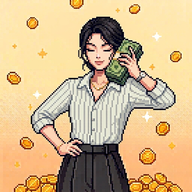
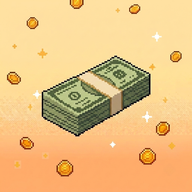
Add files via upload

diff --git a/index.html b/index.html
@@ -3,11 +3,11 @@
 <head>
 <meta charset="UTF-8" />
 <meta name="viewport" content="width=device-width, initial-scale=1, maximum-scale=1, viewport-fit=cover" />
-<title>가계부</title>
+<title>예산별 가계부</title>
 <meta name="theme-color" content="#1F2A44" />
 <meta name="apple-mobile-web-app-capable" content="yes" />
 <meta name="apple-mobile-web-app-status-bar-style" content="black-translucent" />
-<meta name="apple-mobile-web-app-title" content="가계부" />
+<meta name="apple-mobile-web-app-title" content="예산별 가계부" />
 <link rel="manifest" href="./manifest.json" />
 <link rel="apple-touch-icon" href="./icon-192.png" />
 <link rel="icon" href="./icon-192.png" />
@@ -76,14 +76,14 @@
 
   .lg-quick-panel { margin-bottom: 16px; }
   .lg-quick-row { display: flex; gap: 8px; }
-  .lg-quick-input { flex: 1; padding: 10px 11px; border: 1px solid var(--ink); background: #fff; font-size: 14px; font-family: inherit; color: var(--ink); }
+  .lg-quick-input { flex: 1; padding: 10px 11px; border: 1px solid var(--ink); background: #fff; font-size: 14px; font-family: inherit; color: var(--ink); min-width: 0; box-sizing: border-box; }
   .lg-quick-btn { padding: 10px 16px; border: none; background: var(--stamp); color: #fff; font-weight: 700; font-size: 13px; cursor: pointer; white-space: nowrap; }
   .lg-quick-hint { font-size: 11px; color: var(--ink-soft); margin-top: 5px; }
   .lg-error { font-size: 14px; color: var(--red-ink); margin-top: 6px; }
 
   .lg-items-manage { margin-bottom: 16px; }
   .lg-manage-toggle { width: 100%; padding: 9px 12px; background: #fff; border: 1px solid var(--paper-line); color: var(--ink-soft); font-size: 12px; cursor: pointer; display: flex; align-items: center; justify-content: space-between; }
-  .lg-manage-chevron { display: inline-block; transition: transform 0.2s ease; font-size: 12px; }
+  .lg-manage-chevron { display: inline-block; transition: transform 0.2s ease; font-size: 20px; line-height: 1; }
   .lg-manage-chevron.open { transform: rotate(180deg); }
   .lg-manage-body { display: none; border: 1px solid var(--ink); border-top: none; padding: 12px 14px; background: rgba(247,244,236,0.6); }
   .lg-manage-body.show { display: block; }
@@ -96,10 +96,10 @@
   .lg-manage-rename-input { flex: 1; padding: 6px 8px; border: 1px solid var(--ink); font-size: 13px; font-family: inherit; }
   .lg-manage-save { border: none; background: var(--ink); color: var(--paper); font-size: 12px; padding: 6px 10px; cursor: pointer; }
   .lg-add-item-row { display: flex; gap: 6px; margin-top: 10px; }
-  .lg-add-item-row input { padding: 7px 9px; border: 1px solid var(--paper-line); font-size: 13px; }
+  .lg-add-item-row input { padding: 7px 9px; border: 1px solid var(--paper-line); font-size: 13px; min-width: 0; box-sizing: border-box; }
   .lg-add-item-row input.lg-item-name-input { flex: 1.4; }
   .lg-add-item-row input.lg-item-bal-input { flex: 1; }
-  .lg-add-item-row button { padding: 7px 12px; border: none; background: var(--ink); color: var(--paper); font-size: 12px; cursor: pointer; }
+  .lg-add-item-row button { padding: 7px 12px; border: none; background: var(--ink); color: var(--paper); font-size: 12px; cursor: pointer; flex-shrink: 0; }
 
   .lg-item-card { border: 1px solid var(--ink); margin-bottom: 10px; background: rgba(247,244,236,0.5); }
   .lg-item-head { display: flex; align-items: center; justify-content: space-between; padding: 12px 14px; cursor: pointer; }
@@ -156,13 +156,13 @@
   .lg-stamp-value.expense { color: var(--red-ink); }
   .lg-empty { text-align: center; padding: 20px 12px; color: var(--ink-soft); font-size: 13px; border: 1px dashed var(--paper-line); }
 
-  .lg-ratio-chart { display: flex; align-items: center; gap: 20px; padding: 14px 4px 18px; }
-  .lg-ratio-donut { width: 96px; height: 96px; border-radius: 50%; flex-shrink: 0; position: relative; }
-  .lg-ratio-donut::after { content: ""; position: absolute; inset: 16px; background: var(--paper); border-radius: 50%; }
-  .lg-ratio-legend { display: flex; flex-direction: column; gap: 8px; font-size: 12px; }
-  .lg-ratio-legend-row { display: flex; align-items: center; gap: 8px; }
-  .lg-ratio-dot { width: 10px; height: 10px; border-radius: 50%; flex-shrink: 0; }
-  .lg-ratio-pct { font-weight: 700; margin-left: auto; padding-left: 12px; }
+  .lg-ratio-chart { display: flex; align-items: center; gap: 14px; padding: 8px 4px 12px; flex-wrap: wrap; }
+  .lg-ratio-donut { width: 60px; height: 60px; border-radius: 50%; flex-shrink: 0; position: relative; }
+  .lg-ratio-donut::after { content: ""; position: absolute; inset: 10px; background: var(--paper); border-radius: 50%; }
+  .lg-ratio-legend { display: flex; flex-direction: row; flex-wrap: wrap; gap: 6px 10px; font-size: 11px; flex: 1; min-width: 0; }
+  .lg-ratio-legend-row { display: flex; align-items: center; gap: 4px; white-space: nowrap; }
+  .lg-ratio-dot { width: 8px; height: 8px; border-radius: 50%; flex-shrink: 0; }
+  .lg-ratio-pct { font-weight: 700; }
   .lg-sub-title { margin-top: 8px; font-size: 13px; }
 
   .lg-table { width: 100%; border-collapse: collapse; font-size: 12px; table-layout: fixed; }
@@ -200,14 +200,14 @@
 
   <!-- 스플래시 화면 -->
   <div id="loadingScreen">
-    <img src="./icon-512.png" class="splash-logo" alt="가계부" />
-    <div class="login-title">가계부</div>
-    <div class="splash-tagline">제약 없는 삶</div>
+    <img src="./icon-512.png" class="splash-logo" alt="예산별 가계부" />
+    <div class="login-title">예산별 가계부</div>
+    <div class="splash-tagline">제약 없는 삶!</div>
   </div>
 
   <!-- 로그인 화면 -->
   <div id="loginScreen" class="hidden">
-    <div class="login-title">가계부</div>
+    <div class="login-title">예산별 가계부</div>
     <button class="login-google-btn" id="loginBtnMain">구글로 로그인</button>
     <button class="login-guest-link" id="guestBtn">로그인 없이 이 기기에서만 사용하기</button>
     <div id="loginError" class="login-error"></div>
@@ -219,7 +219,7 @@
   <!-- 메인 화면 -->
   <div id="appScreen" class="hidden">
     <div class="lg-header">
-      <div class="lg-title">가계부</div>
+      <div class="lg-title">예산별 가계부</div>
       <button class="lg-account-btn" id="accountBtn">＋</button>
       <div class="lg-account-panel" id="accountPanel">
         <div class="lg-account-name" id="accountName"></div>
@@ -248,10 +248,10 @@
     <div class="lg-tab-panel active" id="tabPanelItems">
       <div class="lg-quick-panel">
         <div class="lg-quick-row">
-          <input type="text" id="quickInput" class="lg-quick-input" placeholder="" />
+          <input type="text" id="quickInput" class="lg-quick-input" placeholder="형식: 항목 금액 메모" />
           <button id="quickBtn" class="lg-quick-btn">추가</button>
         </div>
-        <div id="quickError" class="lg-error">형식: 항목 금액 메모</div>
+        <div id="quickError" class="lg-error hidden"></div>
       </div>
 
       <div class="lg-items-manage">
@@ -278,9 +278,9 @@
           <div class="lg-stamp"><div class="lg-stamp-label">순변동</div><div id="netChange" class="lg-stamp-value">0원</div></div>
         </div>
         <div id="ratioChart" class="lg-ratio-chart"></div>
-        <div class="lg-section-title lg-sub-title" id="incomeByItemTitle">입금 항목별 비율</div>
+        <div class="lg-section-title lg-sub-title" id="incomeByItemTitle">입금 내역</div>
         <div id="incomeByItemChart" class="lg-ratio-chart"></div>
-        <div class="lg-section-title lg-sub-title" id="expenseByItemTitle">출금 항목별 비율</div>
+        <div class="lg-section-title lg-sub-title" id="expenseByItemTitle">출금 내역</div>
         <div id="expenseByItemChart" class="lg-ratio-chart"></div>
         <div id="allHistory"></div>
       </div>
@@ -515,6 +515,10 @@
   function makeId() { return (crypto.randomUUID ? crypto.randomUUID() : "id-" + Date.now() + "-" + Math.random().toString(16).slice(2)); }
   function todayISO() { const d = new Date(); return d.getFullYear() + "-" + String(d.getMonth()+1).padStart(2,"0") + "-" + String(d.getDate()).padStart(2,"0"); }
   function formatWon(n) { const sign = n < 0 ? "-" : ""; return sign + Math.abs(Math.round(n)).toLocaleString("ko-KR") + "원"; }
+  function formatPct(num) {
+    const rounded = Math.round(num * 10) / 10;
+    return (rounded % 1 === 0 ? rounded.toFixed(0) : rounded.toFixed(1)) + "%";
+  }
   function formatDateLabel(dateStr) {
     const d = new Date(dateStr + "T00:00:00");
     const weekdays = ["일","월","화","수","목","금","토"];
@@ -658,7 +662,7 @@
     const gradientParts = [];
     const legendParts = [];
     entries.forEach(([name, amt]) => {
-      const pct = Math.round((amt / total) * 100);
+      const pctNum = (amt / total) * 100;
       const deg = (amt / total) * 360;
       const it = getItem(name);
       const color = it ? it.color : "#8A7C52";
@@ -666,7 +670,7 @@
       cursor += deg;
       legendParts.push(
         '<div class="lg-ratio-legend-row"><span class="lg-ratio-dot" style="background:' + color + ';"></span>' +
-        '<span>' + esc(name) + '</span><span class="lg-ratio-pct">' + pct + '%</span></div>'
+        '<span>' + esc(name.charAt(0)) + '</span><span class="lg-ratio-pct">' + formatPct(pctNum) + '</span></div>'
       );
     });
     el.innerHTML =
@@ -764,14 +768,14 @@
     if (chartTotal === 0) {
       chartEl.innerHTML = "";
     } else {
-      const inPct = Math.round((totalIn / chartTotal) * 100);
-      const outPct = 100 - inPct;
-      const inDeg = (inPct / 100) * 360;
+      const inPctNum = (totalIn / chartTotal) * 100;
+      const outPctNum = 100 - inPctNum;
+      const inDeg = (inPctNum / 100) * 360;
       chartEl.innerHTML =
         '<div class="lg-ratio-donut" style="background: conic-gradient(var(--green-ink) 0deg ' + inDeg + 'deg, var(--red-ink) ' + inDeg + 'deg 360deg);"></div>' +
         '<div class="lg-ratio-legend">' +
-          '<div class="lg-ratio-legend-row"><span class="lg-ratio-dot" style="background: var(--green-ink);"></span><span>입금</span><span class="lg-ratio-pct income">' + inPct + '%</span></div>' +
-          '<div class="lg-ratio-legend-row"><span class="lg-ratio-dot" style="background: var(--red-ink);"></span><span>출금</span><span class="lg-ratio-pct expense">' + outPct + '%</span></div>' +
+          '<div class="lg-ratio-legend-row"><span class="lg-ratio-dot" style="background: var(--green-ink);"></span><span>입금</span><span class="lg-ratio-pct income">' + formatPct(inPctNum) + '</span></div>' +
+          '<div class="lg-ratio-legend-row"><span class="lg-ratio-dot" style="background: var(--red-ink);"></span><span>출금</span><span class="lg-ratio-pct expense">' + formatPct(outPctNum) + '</span></div>' +
         '</div>';
     }
 
@@ -903,6 +907,13 @@
   if ("serviceWorker" in navigator) {
     window.addEventListener("load", () => { navigator.serviceWorker.register("./sw.js").catch(() => {}); });
   }
+
+  // 오프라인 중에 저장된 내용을 온라인 복귀 시 클라우드에 다시 반영
+  window.addEventListener("online", () => {
+    if (currentUser && firebaseReady && window.__lgSaveCloud) {
+      window.__lgSaveCloud(state);
+    }
+  });
 
   renderAccountPanel();
   render();

diff --git a/sw.js b/sw.js
@@ -1,4 +1,4 @@
-const CACHE_NAME = "ledger-cache-v26";
+const CACHE_NAME = "ledger-cache-v28";
 const ASSETS = [
   "./",
   "./index.html",
